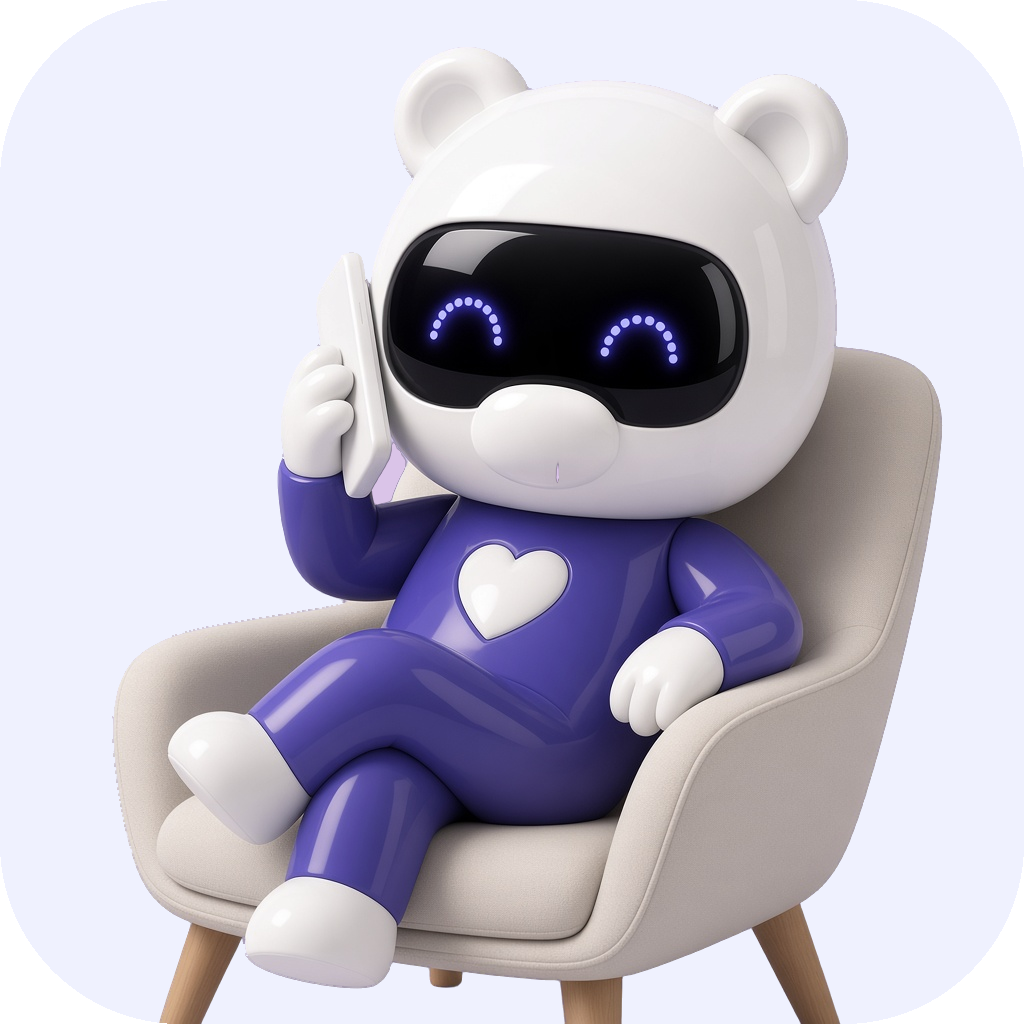
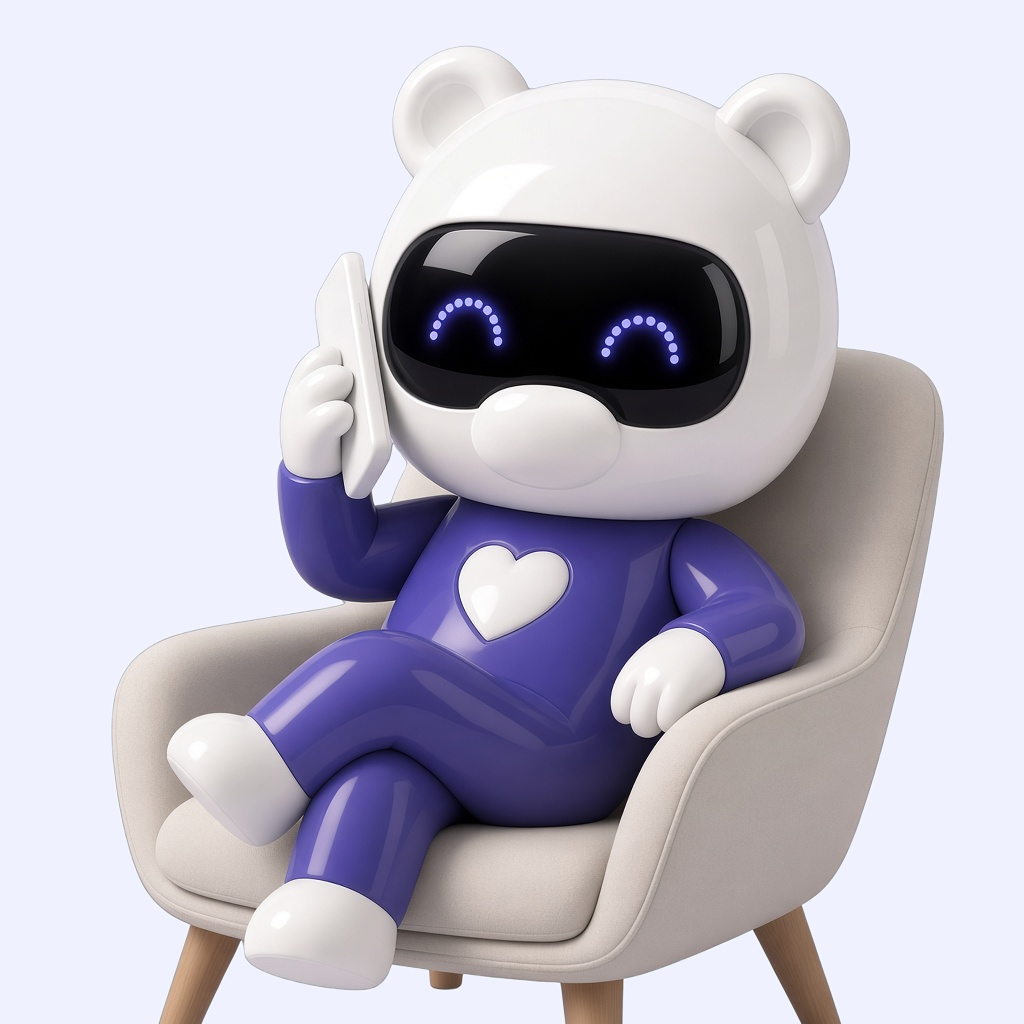
feat(mascot): use the flat lounge-call source for the page image
The approved picture removes the lavender gap and the snout mark.

diff --git a/tooling/mascot-page.test.ts b/tooling/mascot-page.test.ts
@@ -1,0 +1,31 @@
+import { createHash } from "node:crypto";
+import { spawnSync } from "node:child_process";
+import { readFileSync } from "node:fs";
+import path from "node:path";
+import { fileURLToPath } from "node:url";
+import { expect, it } from "vitest";
+
+const root = path.resolve(path.dirname(fileURLToPath(import.meta.url)), "..");
+const body = path.join(root, "shared/assets/mascot/body");
[1 lines of base64/hex data omitted]
+
+it("copies lounge-call-page from lounge-call-source-eff1fe.png", () => {
+  const result = spawnSync(process.execPath, ["tooling/mascot-page.mjs", "--check"], {
+    cwd: root,
+    encoding: "utf8",
+  });
+  const output = result.stdout ?? "";
+  expect(result.status, output || result.stderr || "").toBe(0);
+  expect(output).toContain("lounge-call-page.png max 0 alpha none copy transparent 0");
+  expect(output).not.toContain("lanczos3");
+
+  const source = readFileSync(path.join(body, "lounge-call-source-eff1fe.png"));
+  const page = readFileSync(path.join(body, "lounge-call-page.png"));
+  const hash = createHash("sha256").update(source).digest("hex");
+  expect(hash).toBe(sourceHash);
+  expect(createHash("sha256").update(page).digest("hex")).toBe(sourceHash);
+  expect(Buffer.compare(source, page)).toBe(0);
+  const sums = readFileSync(path.join(root, "shared/assets/mascot/SHA256SUMS"), "utf8");
+  expect(sums.split("\n")).toContain(`${sourceHash}  body/lounge-call-source-eff1fe.png`);
+  expect(sums.split("\n")).toContain(`${sourceHash}  body/lounge-call-page.png`);
+});

diff --git a/app/src/flat-background.test.ts b/app/src/flat-background.test.ts
@@ -178,14 +178,14 @@ it("paints the header avatar on the profile token", async () => {
[1 lines of base64/hex data omitted]
 });
 
-it("paints lounge-call on the page token without editing the original", async () => {
+it("keeps lounge-call-page on the page token and leaves the lavender file unchanged", async () => {
   expect(designTokens.color.page).toBe("#eff1fe");
   const root = path.join(repoRoot, "shared/assets/mascot");
   await expectFlat(path.join(root, "body/lounge-call-page.png"), page);
   const original = await pixels(path.join(root, "body/lounge-call.png"));
   expect(at(original.data, original.width, 0, 0)[3]).toBe(0);
   const pageFile = await pixels(path.join(root, "body/lounge-call-page.png"));
-  expect(at(pageFile.data, pageFile.width, 0, 0)[3]).toBe(0);
+  expect(at(pageFile.data, pageFile.width, 0, 0)[3]).toBe(255);
   const sums = readFileSync(path.join(root, "SHA256SUMS"), "utf8");
   const hash = createHash("sha256")
     .update(readFileSync(path.join(root, "body/lounge-call.png")))

diff --git a/tooling/rebackground.test.ts b/tooling/rebackground.test.ts
@@ -16,7 +16,6 @@ it("keeps body pixels exact and recomposites the edge off the lavender matte", (
   expect(result.status, output || result.stderr || "").toBe(0);
   expect(lines.map((line) => line.split(" ")[0])).toEqual([
     "pfp-lavender-profile.png",
-    "lounge-call-page.png",
     "og-image-page.png",
   ]);
   expect(output).not.toContain("icon-1024-page.png");

diff --git a/shared/assets/mascot/README.md b/shared/assets/mascot/README.md
@@ -6,7 +6,7 @@
 
 ## Does
 
-The files in `avatar/` and in `states/` are 1024 by 1024 pixel PNGs. In `body/`, `hello.png`, `present.png`, and `celebrate.png` are too. `lounge-call.png` is 1024 by 1024 pixels and is not a pose. The other poses in `body/` have another size, written in the list. `duo/` holds JPEGs.
+The files in `avatar/` and in `states/` are 1024 by 1024 pixel PNGs. In `body/`, `hello.png`, `present.png`, and `celebrate.png` are too. `lounge-call.png` and `lounge-call-source-eff1fe.png` are 1024 by 1024 pixels and are not poses. The other poses in `body/` have another size, written in the list. `duo/` holds JPEGs.
 
 `states/` holds busts of the head and shoulders, with transparency. Each file name follows the visual pose. `listening`, `thinking`, and `calling` reuse the moment id. `thinking` and `done` reuse the `state`. `urgent` reuses neither the moment id nor the `state`.
 
@@ -34,7 +34,8 @@ The files in `body/`, in `duo/`, and in `avatar/` match no moment.
 - `calling.png` is the pose where Steve holds the phone to one ear, with the other hand open. The file is 599 by 857 pixels. This is not the bust `states/calling.png`.
 - `bubbles.png` is the home-sheet pose. Steve lies on his belly and blows soap bubbles. The file is 1137 by 840 pixels and includes the contact shadow.
 - `lounge-call.png` is a square icon-style illustration, on a lavender background `#DAC4E8`. The file is 1024 by 1024 pixels. This is not a transparent pose. The corner pixels are transparent.
-- `lounge-call-page.png` is that same illustration on the page background `#eff1fe`. The corner alpha is unchanged. `node tooling/rebackground.mjs` writes this file from `lounge-call.png`.
+- `lounge-call-source-eff1fe.png` is 1024 by 1024 pixels. It is an opaque RGB picture on `#eff1fe`. It is the source for `lounge-call-page.png`. The corners are opaque.
+- `lounge-call-page.png` is that source at the same size. The corners are opaque. `node tooling/mascot-page.mjs` writes this file from `lounge-call-source-eff1fe.png`. When the page file has another size, the command resizes the source with Lanczos. `lounge-call.png` stays the lavender file.
 
 `duo/` holds Steve with Alan the marmot. Each file is an opaque JPEG of 1152 by 864 pixels.
 
@@ -63,8 +64,10 @@ These files are the source. Do not edit them in place. Derive the resized copies
 
 ## Check
 
+`node tooling/mascot-page.mjs --check`
+
 `cd shared/assets/mascot && shasum -a 256 -c SHA256SUMS`
 
 `SHA256SUMS` contains the checksums of the approved original.
 
-`avatar/`, `states/`, `body/hello.png`, `body/present.png`, and `body/celebrate.png` stay 1024 by 1024 pixel PNGs, with transparency, except `pfp-indigo.png`, `pfp-lavender.png`, and `pfp-lavender-profile.png`. `body/lounge-call.png` and `body/lounge-call-page.png` are 1024 by 1024 pixels and are not transparent poses. The eight poses in `body/` that are another size are transparent PNGs. `bubbles.png` is the home pose. `pfp-lavender-profile.png` and `lounge-call-page.png` are the flat-background originals. `duo/dad-son.jpg` and `duo/fistbump.jpg` are opaque JPEGs of 1152 by 864 pixels. A `-page` file uses `#eff1fe`. A `-profile` file uses `#daddfe`. Do not edit the unsuffixed file.
+`avatar/`, `states/`, `body/hello.png`, `body/present.png`, and `body/celebrate.png` stay 1024 by 1024 pixel PNGs, with transparency, except `pfp-indigo.png`, `pfp-lavender.png`, and `pfp-lavender-profile.png`. `body/lounge-call.png`, `body/lounge-call-source-eff1fe.png`, and `body/lounge-call-page.png` are 1024 by 1024 pixels and are not transparent poses. The eight poses in `body/` that are another size are transparent PNGs. `bubbles.png` is the home pose. `pfp-lavender-profile.png` is the flat profile file. `lounge-call-source-eff1fe.png` is the flat page original. `lounge-call-page.png` is that file at the same size. `duo/dad-son.jpg` and `duo/fistbump.jpg` are opaque JPEGs of 1152 by 864 pixels. A `-page` file uses `#eff1fe`. A `-profile` file uses `#daddfe`. Do not edit the unsuffixed file.
